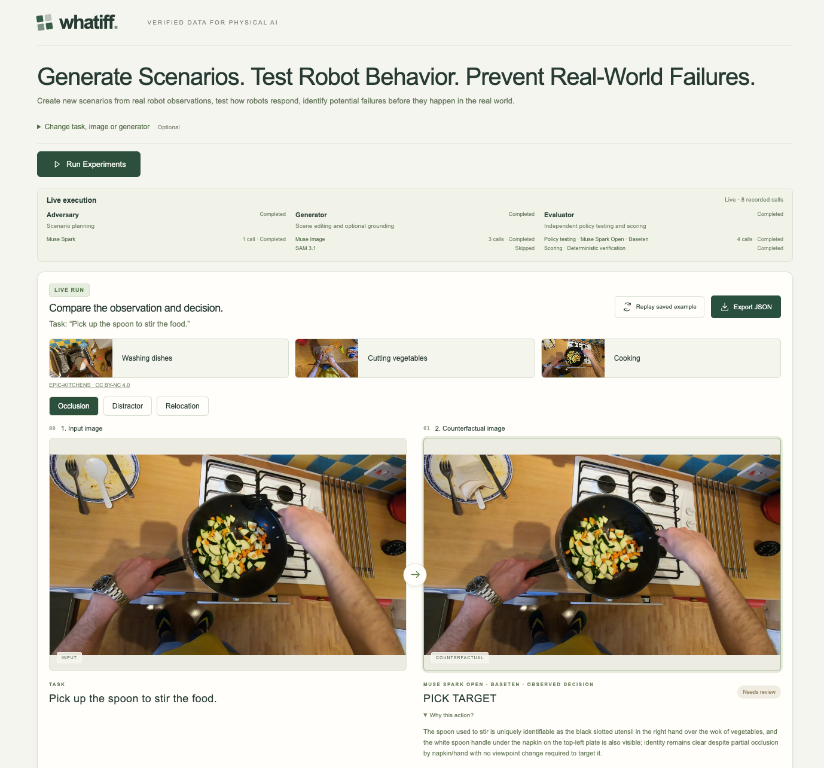
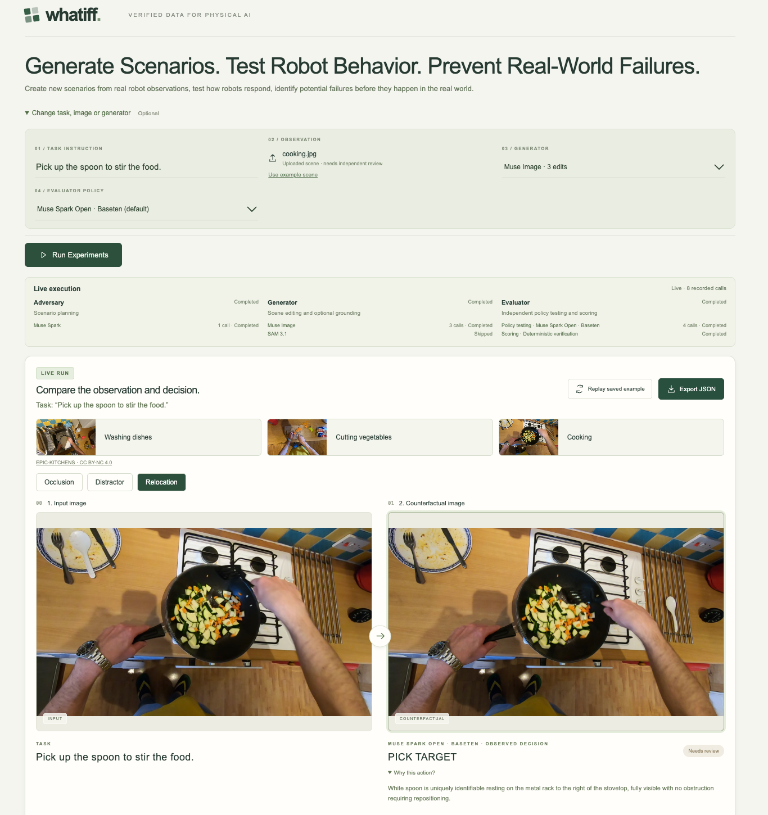
update

diff --git a/src/style.css b/src/style.css
@@ -1,14 +1,14 @@
 
-:root{font-family:Arial,Helvetica,sans-serif;color:#263b33;background:#f5f5ef;font-size:14px;font-synthesis:none;--line:#dce0d5}*{box-sizing:border-box}body{margin:0}button,input,select,textarea{font:inherit}button,a,summary{cursor:pointer}button{color:inherit}button:disabled{opacity:.55;cursor:default}a{color:inherit;text-decoration:none}p{line-height:1.6}button:focus-visible,a:focus-visible,input:focus-visible,select:focus-visible,summary:focus-visible,textarea:focus-visible{outline:3px solid #9eb99b;outline-offset:4px}button svg,a svg{flex-shrink:0}.shell{max-width:1376px;padding:0 56px;margin:auto}.topbar{height:76px;border-bottom:1px solid var(--line);display:flex;align-items:center;gap:20px}.brand{display:flex;align-items:center;font-size:32px;font-weight:750;letter-spacing:-1.8px}.brand-period{color:#7c9879}.brand-mark{width:25px;height:25px;display:grid;grid-template-columns:1fr 1fr;gap:3px;margin-right:12px;transform:rotate(-8deg)}.brand-mark i{background:#355c45;border-radius:2px}.brand-mark i:nth-child(2){opacity:.32}.brand-mark i:nth-child(3){opacity:.65}.top-caption{font-size:10px;letter-spacing:2px;color:#848c7f;margin-left:30px}.hero{display:flex;align-items:center;justify-content:space-between;gap:24px;padding:22px 0 16px}.hero h1{font-size:40px;line-height:1.08;letter-spacing:-1px;font-weight:500;margin:9px 0}.hero p{font-size:13px;color:#66765c;margin:8px 0 0}.run-button{display:flex;align-items:center;justify-content:center;gap:8px;background:#2d503d;color:#f3f6ed;border:1px solid #2d503d;border-radius:6px;height:46px;font-size:13px;padding:0 23px;white-space:nowrap}.run-button:hover{background:#42694b}.demo-settings{margin:0 0 15px;border-bottom:1px solid var(--line);padding-bottom:12px}.demo-settings>summary{font-size:12px;color:#526e46;padding:9px 0}.demo-settings>summary>span{font-size:10px;color:#89917f;margin-left:10px}.setup{background:#e9ede2;border:1px solid #dce3d3;border-radius:10px;padding:14px 17px;display:grid;grid-template-columns:1fr 1fr 1fr;gap:18px;align-items:end;margin-top:12px}.setup label{font-size:8px;letter-spacing:1.3px;font-weight:700;display:block;color:#7f8b76;margin-bottom:9px}.setup input:not(.file-input),.setup select{width:100%;background:transparent;color:#314531;border:0;border-bottom:1px solid #cad4c3;height:39px}.setup input:not(.file-input){font-size:15px}.setup select{font-size:12px}.upload{display:flex;align-items:center;gap:9px;border:0;background:none;padding:0;text-align:left;min-height:39px;width:100%}.upload>span{display:block;max-width:195px;overflow:hidden;text-overflow:ellipsis;white-space:nowrap;font-size:12px}.upload small{display:block;color:#829076;margin-top:5px;font-size:9px}.file-input{position:absolute;width:1px;height:1px;clip:rect(0,0,0,0);overflow:hidden}.reset-scene{background:none;border:0;text-decoration:underline;color:#657e5e;font-size:10px;padding:4px 0 0}.setup-notes{display:flex;justify-content:space-between;gap:20px;color:#8b9284;font-size:10px;padding:11px 2px 0}.experiment{background:#fffefa;border:1px solid #dce1d4;border-radius:12px;box-shadow:0 3px 7px #263f3010;padding:19px;display:flex;flex-direction:column}.experiment-bar{display:flex;align-items:center;justify-content:space-between;gap:20px;order:0}.mode-tag{display:inline-flex;padding:5px 8px;background:#eeeade;color:#8a8066;border:1px solid #e4dfce;border-radius:4px;font-size:9px;font-weight:600;letter-spacing:1px}.mode-tag.live{background:#e7efdf;color:#57764d;border-color:#d3dfc7}h2{font-size:18px;letter-spacing:-.6px;font-weight:500;margin:9px 0 6px}.run-task{font-size:13px;color:#697b5d;margin:0}.experiment-actions{display:flex;align-items:center;gap:11px}.subtle-button,.export-button{display:inline-flex;gap:7px;align-items:center;border:1px solid #dce2d4;border-radius:5px;padding:9px 12px;font-size:10px;background:none}.subtle-button:hover{background:#f0f3e9}.export-button{background:#294f3e;color:#fff;border:1px solid #294f3e;padding:10px 14px;font-size:11px}.export-button:hover{background:#42694b}.zero-api{display:none}.sample-picker{order:1;display:flex;gap:10px;margin-top:14px}.sample-picker button{padding:0;border:1px solid #d7dece;border-radius:6px;overflow:hidden;background:#f4f5ed;display:flex;align-items:center;gap:10px;text-align:left;font-size:12px;flex:1}.sample-picker img{width:105px;height:64px;object-fit:cover}.sample-picker span{padding:6px}.sample-picker button:hover{background:#e7eddd}.sample-credit{order:1;font-size:9px;color:#7d8872;margin-top:7px;text-decoration:underline}.case-tabs{order:1;display:flex;gap:8px;margin-top:14px}.case-tabs button{border:1px solid #d6ddce;padding:8px 14px;border-radius:5px;background:transparent;font-size:12px}.case-tabs button.active{background:#2d503d;color:white}.comparison{order:3;display:grid;grid-template-columns:1fr 1fr;gap:28px;position:relative;margin-top:15px}.image-heading{display:flex;align-items:center;justify-content:space-between;font-size:11px;margin-bottom:10px;gap:8px}.image-heading>div{display:flex;align-items:center;gap:9px}.image-heading strong{font-weight:500}.index{font-family:monospace;color:#98a08d;font-size:9px}.image-note{color:#969d8c;font-size:9px}.image-frame{height:clamp(260px,30vw,390px);position:relative;border-radius:7px;background:#edece3;overflow:hidden;border:1px solid #e2e3d7}.image-frame img{width:100%;height:100%;object-fit:contain;display:block}.edited .image-frame{border:1px solid #a9b79a;box-shadow:0 0 0 3px #e5ecdc}.image-placeholder{height:100%;display:flex;flex-direction:column;align-items:center;justify-content:center;gap:15px;color:#93a18a;font-size:12px;text-align:center;padding:18px}.frame-tag{position:absolute;bottom:12px;left:12px;padding:5px 7px;font-size:7px;letter-spacing:1px;border-radius:3px;background:#f6f6efdb;color:#64715b;border:1px solid #ffffff77}.comparison-arrow{position:absolute;left:50%;top:44%;transform:translate(-50%,-50%);width:39px;height:39px;display:flex;align-items:center;justify-content:center;background:#fffefa;border:1px solid #dce2d2;border-radius:50%;z-index:1;color:#658254;box-shadow:0 3px 6px #344c3012}.region-overlay{position:absolute;inset:0;width:100%;height:100%;pointer-events:none;overflow:hidden}.region-halo{fill:none;stroke:#fff9ed;stroke-width:10}.region-border{fill:none;stroke:#b96525;stroke-width:4}.reference-border{stroke-dasharray:10 6}.region-leader{fill:none;stroke:#9c551f;stroke-width:3}.region-label{font:700 17px Arial,sans-serif;fill:#703d18;stroke:#fff7e8;stroke-width:5px;paint-order:stroke;letter-spacing:1px}.decision-row{display:flex;align-items:center;justify-content:space-between;gap:12px;margin-top:12px}.small-label{font-size:9px;letter-spacing:1.55px;font-weight:650;color:#74816c}.decision-row .small-label{font-size:8px;color:#6b7e5e}.decision{display:block;font-size:18px;letter-spacing:.4px;font-weight:500;margin-top:8px}.outcome{display:inline-flex;align-items:center;justify-content:center;gap:4px;font-size:9px;font-weight:500;padding:6px 9px;border-radius:20px;white-space:nowrap}.outcome.pass{background:#e8eedf;color:#557344}.outcome.potential_failure{background:#f9e5df;color:#9a5846}.outcome.inconclusive,.outcome.pending{background:#f0ece1;color:#958568}.policy-reason{font-size:10px;line-height:1.6;color:#687a5b;margin:9px 0}.policy-reason p{font-size:11px}.expected{display:flex;gap:7px;align-items:center;flex-wrap:wrap;border-top:1px solid #e9ebdf;padding-top:8px;font-size:10px;color:#748368}.expected strong{font-size:10px;font-weight:500;color:#74816a}.criterion-ok,.criterion-pending{margin-left:auto;font-size:9px}.criterion-ok{color:#7e9570}.criterion-pending{color:#a08c64}.case-summary{order:5;display:grid;grid-template-columns:1.1fr 1fr .85fr;gap:20px;padding:13px 0;margin-top:12px;border-top:1px solid #e6e9dd;border-bottom:1px solid #e6e9dd}.case-summary>div{display:flex;flex-direction:column;align-items:flex-start;gap:8px}.case-summary strong{font-size:12px;font-weight:500;line-height:1.4}.case-summary strong>span{color:#82996f;margin:0 5px}.case-summary small{font-size:10px;line-height:1.5;color:#748467}.case-summary .outcome{font-size:11px;padding:4px 10px}.case-summary .small-label{font-size:8px;color:#728466}.annotation-note{order:4;display:flex;align-items:center;gap:7px;font-size:9px;line-height:1.6;color:#7a6b54;margin:7px 0}.annotation-swatch{display:inline-block;width:12px;height:12px;border:2px solid #b96525;border-radius:2px;flex-shrink:0}.finding{order:6;margin-top:12px;border-radius:7px;background:#edf2e5;border:1px solid #dce6d2;padding:12px}.finding.inconclusive{background:#f6f2e8;border-color:#e8dfca}.finding.potential_failure{background:#fff0e9;border-color:#eed6c7}.finding-heading{display:flex;align-items:center;gap:12px}.finding-heading>.outcome{margin-left:auto}.finding-icon{display:flex;align-items:center;justify-content:center;width:35px;height:35px;border-radius:50%;background:#dde8cf;color:#5f7c49}.finding-heading .small-label{font-size:7px;letter-spacing:1.4px;color:#637c50}.finding h3{font-size:16px;font-weight:500;margin:4px 0 0;letter-spacing:-.3px}.finding>p{font-size:11px;color:#5e754e;margin:6px 0 0 47px}.progress{order:1;display:flex;gap:11px;align-items:center;background:#e9f0e0;padding:14px;border-radius:6px;font-size:12px;margin:20px 0}.spinner{border:2px solid currentColor;border-right-color:transparent;border-radius:50%;width:14px;height:14px;display:inline-block;animation:spin 1s linear infinite;flex-shrink:0}@keyframes spin{to{transform:rotate(360deg)}}.error{order:1;background:#f9e9e2;color:#976148;border:1px solid #eccfbe;padding:16px;border-radius:6px;margin:16px 0;font-size:12px;display:flex;align-items:center;justify-content:space-between;gap:12px}.error p{margin:5px 0 0;font-size:11px}.review-panel{order:8;margin-top:16px;padding:18px;border:1px solid #dce2d3;border-radius:7px;background:#f5f6ef}.review-title{display:flex;justify-content:space-between;align-items:center;gap:12px}.review-title h3{font-size:17px;font-weight:500;margin:0}.review-title span{font-size:11px;color:#6f7b65}.reviewer-label{display:block;font-size:11px;margin-top:14px;max-width:280px}.review-panel input:not([type=checkbox]),.review-panel textarea{display:block;width:100%;padding:9px 10px;border:1px solid #cbd5c0;border-radius:4px;background:#fffefa;margin-top:6px;font:inherit;font-size:12px;color:#314531}.review-panel textarea{min-height:63px;resize:vertical}.review-grid{display:grid;grid-template-columns:1fr 1fr;gap:28px}.review-grid h4{font-size:12px;margin:17px 0 12px}.review-panel button{border:1px solid #c8d4be;border-radius:4px;background:#e7eddf;padding:9px 12px;font-size:11px;margin-top:10px}.review-buttons{display:flex;gap:8px}.review-panel fieldset{border:0;padding:0;margin:10px 0}.review-panel legend{font-size:10px;color:#79866d;margin-bottom:6px}.review-panel fieldset label{display:flex;align-items:center;gap:7px;font-size:11px;margin:6px 0}.review-panel>p,.review-panel small{font-size:11px;color:#567646;display:block}.review-panel p[role=alert]{color:#a44d39}.saved-files{padding:20px 0 28px;display:flex;align-items:center;gap:12px;flex-wrap:wrap;font-size:11px;color:#6b7a5e}.saved-files>a{text-decoration:underline;text-underline-offset:4px;overflow-wrap:anywhere;min-width:0;color:#385c40}.saved-files>small{font-size:10px;color:#89927f}
-@media(max-width:1000px){.shell{padding:0 28px}.top-caption{display:none}.hero h1{font-size:34px}.case-summary{gap:14px}.case-summary strong{font-size:11px}}
-@media(max-width:660px){.shell{padding:0 17px}.topbar{height:70px}.brand{font-size:28px}.hero{display:block;padding:18px 0 12px}.hero h1{font-size:29px;letter-spacing:-1.8px}.hero .run-button{margin-top:16px;width:100%}.setup{grid-template-columns:1fr 1fr;padding:14px}.task-input{grid-column:1/-1}.upload>span{max-width:135px}.upload small{white-space:normal;line-height:1.4}.setup-notes{flex-direction:column;gap:6px;font-size:9px;line-height:1.5}.experiment{padding:12px}.experiment-bar{align-items:start;flex-direction:column;gap:9px}.experiment-bar h2{font-size:16px;max-width:260px}.experiment-actions{justify-content:space-between;width:100%}.subtle-button{font-size:9px;padding:8px}.export-button{font-size:10px;padding:8px}.sample-picker{gap:6px}.sample-picker button{display:block;font-size:10px}.sample-picker img{width:100%;height:60px}.sample-picker span{display:block;padding:6px}.comparison{gap:14px}.image-note{display:none}.image-heading{font-size:9px}.image-heading>div{gap:5px}.index{font-size:7px}.image-frame{height:auto;aspect-ratio:1;border-radius:4px}.comparison-arrow{width:25px;height:25px;top:30%}.comparison-arrow svg{width:13px}.frame-tag{font-size:5px;padding:3px;bottom:6px;left:6px}.decision-row{display:block}.decision-row .small-label{font-size:7px;line-height:1.5;display:block;letter-spacing:.5px}.decision{font-size:12px;margin:7px 0 9px}.expected{font-size:8px;gap:5px}.expected strong{font-size:9px}.criterion-ok,.criterion-pending{margin-left:0;font-size:8px;width:100%;line-height:1.6}.outcome{font-size:8px;padding:4px 7px}.case-summary{grid-template-columns:1fr 1fr;gap:10px}.case-summary .summary-result{grid-column:1/-1;display:flex;flex-wrap:wrap;gap:8px;align-items:center}.summary-result small{flex-basis:100%}.case-summary small{font-size:9px}.finding-heading{gap:8px}.finding-icon{width:26px;height:26px;flex-shrink:0}.finding-icon svg{width:15px}.finding h3{font-size:13px}.finding-heading .small-label{font-size:6px;letter-spacing:.8px}.finding-heading>.outcome{display:none}.finding>p{margin-left:0}.annotation-note{font-size:9px;align-items:flex-start}.annotation-swatch{margin-top:2px;width:10px;height:10px}.region-label,.region-leader{display:none}.review-grid{grid-template-columns:1fr;gap:0}.review-panel{padding:12px}.review-title h3{font-size:15px}.review-title span{font-size:10px}.error{align-items:start;flex-direction:column}.saved-files{display:block;line-height:1.8}.saved-files>a{display:block;font-size:10px}}
+:root{font-family:Arial,Helvetica,sans-serif;color:#263b33;background:#f5f5ef;font-size:14px;font-synthesis:none;--line:#dce0d5}*{box-sizing:border-box}body{margin:0}button,input,select,textarea{font:inherit}button,a,summary{cursor:pointer}button{color:inherit}button:disabled{opacity:.55;cursor:default}a{color:inherit;text-decoration:none}p{line-height:1.6}button:focus-visible,a:focus-visible,input:focus-visible,select:focus-visible,summary:focus-visible,textarea:focus-visible{outline:3px solid #9eb99b;outline-offset:4px}button svg,a svg{flex-shrink:0}.shell{max-width:1376px;padding:0 56px;margin:auto}.topbar{height:76px;border-bottom:1px solid var(--line);display:flex;align-items:center;gap:20px}.brand{display:flex;align-items:center;font-size:32px;font-weight:750;letter-spacing:-1.8px}.brand-period{color:#7c9879}.brand-mark{width:25px;height:25px;display:grid;grid-template-columns:1fr 1fr;gap:3px;margin-right:12px;transform:rotate(-8deg)}.brand-mark i{background:#355c45;border-radius:2px}.brand-mark i:nth-child(2){opacity:.32}.brand-mark i:nth-child(3){opacity:.65}.top-caption{font-size:10px;letter-spacing:2px;color:#848c7f;margin-left:30px}.hero{display:flex;align-items:center;justify-content:space-between;gap:24px;padding:22px 0 16px}.hero h3{font-size:40px;line-height:1.08;letter-spacing:-1px;font-weight:500;margin:9px 0}.hero p{font-size:13px;color:#66765c;margin:8px 0 0}.run-button{display:flex;align-items:center;justify-content:center;gap:8px;background:#2d503d;color:#f3f6ed;border:1px solid #2d503d;border-radius:6px;height:46px;font-size:13px;padding:0 23px;white-space:nowrap}.run-button:hover{background:#42694b}.demo-settings{margin:0 0 15px;border-bottom:1px solid var(--line);padding-bottom:12px}.demo-settings>summary{font-size:12px;color:#526e46;padding:9px 0}.demo-settings>summary>span{font-size:10px;color:#89917f;margin-left:10px}.setup{background:#e9ede2;border:1px solid #dce3d3;border-radius:10px;padding:14px 17px;display:grid;grid-template-columns:1fr 1fr 1fr;gap:18px;align-items:end;margin-top:12px}.setup label{font-size:8px;letter-spacing:1.3px;font-weight:700;display:block;color:#7f8b76;margin-bottom:9px}.setup input:not(.file-input),.setup select{width:100%;background:transparent;color:#314531;border:0;border-bottom:1px solid #cad4c3;height:39px}.setup input:not(.file-input){font-size:15px}.setup select{font-size:12px}.upload{display:flex;align-items:center;gap:9px;border:0;background:none;padding:0;text-align:left;min-height:39px;width:100%}.upload>span{display:block;max-width:195px;overflow:hidden;text-overflow:ellipsis;white-space:nowrap;font-size:12px}.upload small{display:block;color:#829076;margin-top:5px;font-size:9px}.file-input{position:absolute;width:1px;height:1px;clip:rect(0,0,0,0);overflow:hidden}.reset-scene{background:none;border:0;text-decoration:underline;color:#657e5e;font-size:10px;padding:4px 0 0}.setup-notes{display:flex;justify-content:space-between;gap:20px;color:#8b9284;font-size:10px;padding:11px 2px 0}.experiment{background:#fffefa;border:1px solid #dce1d4;border-radius:12px;box-shadow:0 3px 7px #263f3010;padding:19px;display:flex;flex-direction:column}.experiment-bar{display:flex;align-items:center;justify-content:space-between;gap:20px;order:0}.mode-tag{display:inline-flex;padding:5px 8px;background:#eeeade;color:#8a8066;border:1px solid #e4dfce;border-radius:4px;font-size:9px;font-weight:600;letter-spacing:1px}.mode-tag.live{background:#e7efdf;color:#57764d;border-color:#d3dfc7}h2{font-size:18px;letter-spacing:-.6px;font-weight:500;margin:9px 0 6px}.run-task{font-size:13px;color:#697b5d;margin:0}.experiment-actions{display:flex;align-items:center;gap:11px}.subtle-button,.export-button{display:inline-flex;gap:7px;align-items:center;border:1px solid #dce2d4;border-radius:5px;padding:9px 12px;font-size:10px;background:none}.subtle-button:hover{background:#f0f3e9}.export-button{background:#294f3e;color:#fff;border:1px solid #294f3e;padding:10px 14px;font-size:11px}.export-button:hover{background:#42694b}.zero-api{display:none}.sample-picker{order:1;display:flex;gap:10px;margin-top:14px}.sample-picker button{padding:0;border:1px solid #d7dece;border-radius:6px;overflow:hidden;background:#f4f5ed;display:flex;align-items:center;gap:10px;text-align:left;font-size:12px;flex:1}.sample-picker img{width:105px;height:64px;object-fit:cover}.sample-picker span{padding:6px}.sample-picker button:hover{background:#e7eddd}.sample-credit{order:1;font-size:9px;color:#7d8872;margin-top:7px;text-decoration:underline}.case-tabs{order:1;display:flex;gap:8px;margin-top:14px}.case-tabs button{border:1px solid #d6ddce;padding:8px 14px;border-radius:5px;background:transparent;font-size:12px}.case-tabs button.active{background:#2d503d;color:white}.comparison{order:3;display:grid;grid-template-columns:1fr 1fr;gap:28px;position:relative;margin-top:15px}.image-heading{display:flex;align-items:center;justify-content:space-between;font-size:11px;margin-bottom:10px;gap:8px}.image-heading>div{display:flex;align-items:center;gap:9px}.image-heading strong{font-weight:500}.index{font-family:monospace;color:#98a08d;font-size:9px}.image-note{color:#969d8c;font-size:9px}.image-frame{height:clamp(260px,30vw,390px);position:relative;border-radius:7px;background:#edece3;overflow:hidden;border:1px solid #e2e3d7}.image-frame img{width:100%;height:100%;object-fit:contain;display:block}.edited .image-frame{border:1px solid #a9b79a;box-shadow:0 0 0 3px #e5ecdc}.image-placeholder{height:100%;display:flex;flex-direction:column;align-items:center;justify-content:center;gap:15px;color:#93a18a;font-size:12px;text-align:center;padding:18px}.frame-tag{position:absolute;bottom:12px;left:12px;padding:5px 7px;font-size:7px;letter-spacing:1px;border-radius:3px;background:#f6f6efdb;color:#64715b;border:1px solid #ffffff77}.comparison-arrow{position:absolute;left:50%;top:44%;transform:translate(-50%,-50%);width:39px;height:39px;display:flex;align-items:center;justify-content:center;background:#fffefa;border:1px solid #dce2d2;border-radius:50%;z-index:1;color:#658254;box-shadow:0 3px 6px #344c3012}.region-overlay{position:absolute;inset:0;width:100%;height:100%;pointer-events:none;overflow:hidden}.region-halo{fill:none;stroke:#fff9ed;stroke-width:10}.region-border{fill:none;stroke:#b96525;stroke-width:4}.reference-border{stroke-dasharray:10 6}.region-leader{fill:none;stroke:#9c551f;stroke-width:3}.region-label{font:700 17px Arial,sans-serif;fill:#703d18;stroke:#fff7e8;stroke-width:5px;paint-order:stroke;letter-spacing:1px}.decision-row{display:flex;align-items:center;justify-content:space-between;gap:12px;margin-top:12px}.small-label{font-size:9px;letter-spacing:1.55px;font-weight:650;color:#74816c}.decision-row .small-label{font-size:8px;color:#6b7e5e}.decision{display:block;font-size:18px;letter-spacing:.4px;font-weight:500;margin-top:8px}.outcome{display:inline-flex;align-items:center;justify-content:center;gap:4px;font-size:9px;font-weight:500;padding:6px 9px;border-radius:20px;white-space:nowrap}.outcome.pass{background:#e8eedf;color:#557344}.outcome.potential_failure{background:#f9e5df;color:#9a5846}.outcome.inconclusive,.outcome.pending{background:#f0ece1;color:#958568}.policy-reason{font-size:10px;line-height:1.6;color:#687a5b;margin:9px 0}.policy-reason p{font-size:11px}.expected{display:flex;gap:7px;align-items:center;flex-wrap:wrap;border-top:1px solid #e9ebdf;padding-top:8px;font-size:10px;color:#748368}.expected strong{font-size:10px;font-weight:500;color:#74816a}.criterion-ok,.criterion-pending{margin-left:auto;font-size:9px}.criterion-ok{color:#7e9570}.criterion-pending{color:#a08c64}.case-summary{order:5;display:grid;grid-template-columns:1.1fr 1fr .85fr;gap:20px;padding:13px 0;margin-top:12px;border-top:1px solid #e6e9dd;border-bottom:1px solid #e6e9dd}.case-summary>div{display:flex;flex-direction:column;align-items:flex-start;gap:8px}.case-summary strong{font-size:12px;font-weight:500;line-height:1.4}.case-summary strong>span{color:#82996f;margin:0 5px}.case-summary small{font-size:10px;line-height:1.5;color:#748467}.case-summary .outcome{font-size:11px;padding:4px 10px}.case-summary .small-label{font-size:8px;color:#728466}.annotation-note{order:4;display:flex;align-items:center;gap:7px;font-size:9px;line-height:1.6;color:#7a6b54;margin:7px 0}.annotation-swatch{display:inline-block;width:12px;height:12px;border:2px solid #b96525;border-radius:2px;flex-shrink:0}.finding{order:6;margin-top:12px;border-radius:7px;background:#edf2e5;border:1px solid #dce6d2;padding:12px}.finding.inconclusive{background:#f6f2e8;border-color:#e8dfca}.finding.potential_failure{background:#fff0e9;border-color:#eed6c7}.finding-heading{display:flex;align-items:center;gap:12px}.finding-heading>.outcome{margin-left:auto}.finding-icon{display:flex;align-items:center;justify-content:center;width:35px;height:35px;border-radius:50%;background:#dde8cf;color:#5f7c49}.finding-heading .small-label{font-size:7px;letter-spacing:1.4px;color:#637c50}.finding h3{font-size:16px;font-weight:500;margin:4px 0 0;letter-spacing:-.3px}.finding>p{font-size:11px;color:#5e754e;margin:6px 0 0 47px}.progress{order:1;display:flex;gap:11px;align-items:center;background:#e9f0e0;padding:14px;border-radius:6px;font-size:12px;margin:20px 0}.spinner{border:2px solid currentColor;border-right-color:transparent;border-radius:50%;width:14px;height:14px;display:inline-block;animation:spin 1s linear infinite;flex-shrink:0}@keyframes spin{to{transform:rotate(360deg)}}.error{order:1;background:#f9e9e2;color:#976148;border:1px solid #eccfbe;padding:16px;border-radius:6px;margin:16px 0;font-size:12px;display:flex;align-items:center;justify-content:space-between;gap:12px}.error p{margin:5px 0 0;font-size:11px}.review-panel{order:8;margin-top:16px;padding:18px;border:1px solid #dce2d3;border-radius:7px;background:#f5f6ef}.review-title{display:flex;justify-content:space-between;align-items:center;gap:12px}.review-title h3{font-size:17px;font-weight:500;margin:0}.review-title span{font-size:11px;color:#6f7b65}.reviewer-label{display:block;font-size:11px;margin-top:14px;max-width:280px}.review-panel input:not([type=checkbox]),.review-panel textarea{display:block;width:100%;padding:9px 10px;border:1px solid #cbd5c0;border-radius:4px;background:#fffefa;margin-top:6px;font:inherit;font-size:12px;color:#314531}.review-panel textarea{min-height:63px;resize:vertical}.review-grid{display:grid;grid-template-columns:1fr 1fr;gap:28px}.review-grid h4{font-size:12px;margin:17px 0 12px}.review-panel button{border:1px solid #c8d4be;border-radius:4px;background:#e7eddf;padding:9px 12px;font-size:11px;margin-top:10px}.review-buttons{display:flex;gap:8px}.review-panel fieldset{border:0;padding:0;margin:10px 0}.review-panel legend{font-size:10px;color:#79866d;margin-bottom:6px}.review-panel fieldset label{display:flex;align-items:center;gap:7px;font-size:11px;margin:6px 0}.review-panel>p,.review-panel small{font-size:11px;color:#567646;display:block}.review-panel p[role=alert]{color:#a44d39}.saved-files{padding:20px 0 28px;display:flex;align-items:center;gap:12px;flex-wrap:wrap;font-size:11px;color:#6b7a5e}.saved-files>a{text-decoration:underline;text-underline-offset:4px;overflow-wrap:anywhere;min-width:0;color:#385c40}.saved-files>small{font-size:10px;color:#89927f}
+@media(max-width:1000px){.shell{padding:0 28px}.top-caption{display:none}.hero h3{font-size:34px}.case-summary{gap:14px}.case-summary strong{font-size:11px}}
+@media(max-width:660px){.shell{padding:0 17px}.topbar{height:70px}.brand{font-size:28px}.hero{display:block;padding:18px 0 12px}.hero h3{font-size:29px;letter-spacing:-1.8px}.hero .run-button{margin-top:16px;width:100%}.setup{grid-template-columns:1fr 1fr;padding:14px}.task-input{grid-column:1/-1}.upload>span{max-width:135px}.upload small{white-space:normal;line-height:1.4}.setup-notes{flex-direction:column;gap:6px;font-size:9px;line-height:1.5}.experiment{padding:12px}.experiment-bar{align-items:start;flex-direction:column;gap:9px}.experiment-bar h2{font-size:16px;max-width:260px}.experiment-actions{justify-content:space-between;width:100%}.subtle-button{font-size:9px;padding:8px}.export-button{font-size:10px;padding:8px}.sample-picker{gap:6px}.sample-picker button{display:block;font-size:10px}.sample-picker img{width:100%;height:60px}.sample-picker span{display:block;padding:6px}.comparison{gap:14px}.image-note{display:none}.image-heading{font-size:9px}.image-heading>div{gap:5px}.index{font-size:7px}.image-frame{height:auto;aspect-ratio:1;border-radius:4px}.comparison-arrow{width:25px;height:25px;top:30%}.comparison-arrow svg{width:13px}.frame-tag{font-size:5px;padding:3px;bottom:6px;left:6px}.decision-row{display:block}.decision-row .small-label{font-size:7px;line-height:1.5;display:block;letter-spacing:.5px}.decision{font-size:12px;margin:7px 0 9px}.expected{font-size:8px;gap:5px}.expected strong{font-size:9px}.criterion-ok,.criterion-pending{margin-left:0;font-size:8px;width:100%;line-height:1.6}.outcome{font-size:8px;padding:4px 7px}.case-summary{grid-template-columns:1fr 1fr;gap:10px}.case-summary .summary-result{grid-column:1/-1;display:flex;flex-wrap:wrap;gap:8px;align-items:center}.summary-result small{flex-basis:100%}.case-summary small{font-size:9px}.finding-heading{gap:8px}.finding-icon{width:26px;height:26px;flex-shrink:0}.finding-icon svg{width:15px}.finding h3{font-size:13px}.finding-heading .small-label{font-size:6px;letter-spacing:.8px}.finding-heading>.outcome{display:none}.finding>p{margin-left:0}.annotation-note{font-size:9px;align-items:flex-start}.annotation-swatch{margin-top:2px;width:10px;height:10px}.region-label,.region-leader{display:none}.review-grid{grid-template-columns:1fr;gap:0}.review-panel{padding:12px}.review-title h3{font-size:15px}.review-title span{font-size:10px}.error{align-items:start;flex-direction:column}.saved-files{display:block;line-height:1.8}.saved-files>a{display:block;font-size:10px}}
 @media(prefers-reduced-motion:reduce){*{transition:none!important}.spinner{animation-duration:3s}}
 
 .approval-states{display:flex;gap:7px;flex-wrap:wrap;justify-content:flex-end}.approval-states span{padding:4px 7px;border:1px solid #d9dfd0;border-radius:4px;font-size:10px}@media(max-width:660px){.review-title{align-items:start}.approval-states{max-width:175px}}
 
 .recorded-note{order:1;font-size:10px;color:#7b806d;margin:10px 0 0}
 
-.hero{display:block}.hero h1{font-size:clamp(24px,3vw,40px);white-space:nowrap}.run-controls{display:flex;margin:0 0 18px}.run-controls .run-button{height:43px}.demo-settings{margin-bottom:12px}@media(max-width:660px){.hero h1{font-size:29px;white-space:normal}.run-controls .run-button{width:100%}}
+.hero{display:block}.hero h3{font-size:clamp(24px,3vw,40px);white-space:nowrap}.run-controls{display:flex;margin:0 0 18px}.run-controls .run-button{height:43px}.demo-settings{margin-bottom:12px}@media(max-width:660px){.hero h3{font-size:29px;white-space:normal}.run-controls .run-button{width:100%}}
 
 .execution-panel{border:1px solid #dce2d3;border-radius:8px;padding:13px 15px;margin:0 0 16px;background:#f0f3e9}.execution-panel>header{display:flex;justify-content:space-between;gap:12px;font-size:12px;margin-bottom:11px}.execution-panel>header>span{font-size:10px;color:#718168}.execution-stages{display:grid;grid-template-columns:repeat(4,1fr);gap:16px}.execution-stages article{min-width:0}.execution-stages article>div{display:flex;justify-content:space-between;gap:5px;font-size:11px}.execution-status{font-size:9px;color:#718168}.execution-status.running{color:#537a3c}.execution-status.failed{color:#a45f40}.execution-stages p{font-size:10px;color:#7c8870;margin:5px 0 7px}.execution-stages small{display:flex;justify-content:space-between;gap:8px;font-size:9px;line-height:1.7;color:#617856}.execution-stages small>span{color:#829076;white-space:nowrap}@media(max-width:660px){.execution-stages{grid-template-columns:1fr 1fr;gap:14px}.execution-panel>header{flex-direction:column;gap:4px}}
 

diff --git a/src/main.jsx b/src/main.jsx
@@ -176,9 +176,9 @@ function App() {
 
   const originalImage = run?.original?.image_url || preview;
   return <div className="shell">
-    <header className="topbar"><a className="brand" href="/" aria-label="Whatiff home"><span className="brand-mark"><i/><i/><i/><i/></span>whatiff<span className="brand-period">.</span></a><span className="top-caption">VERIFIED DATA FOR PHYSICAL AI</span></header>
+    <header className="topbar"><a className="brand" href="/" aria-label="Whatiff home"><span className="brand-mark"><i/><i/><i/><i/></span>whatiff<span className="brand-period">.</span></a></header>
     <main>
-      <section className="hero"><div><h1>Generate Scenarios. Test Robot Behavior. Prevent Real-World Failures.</h1><p>Create new scenarios from real robot observations, test how robots respond,  identify potential failures before they happen in the real world.</p></div></section>
+      <section className="hero"><div><h3>Intelligent Data Generation for Physical AI to Prevent Real-World Failures</h3><p>Create new scenarios from real robot observations, test how robots respond,  identify potential failures before they happen in the real world.</p></div></section>
       <details className="demo-settings"><summary>Change task, image or generator <span>Optional</span></summary>
       <form id="live-demo" className="setup" onSubmit={live}>
         <div className="task-input"><label htmlFor="task">01 / TASK INSTRUCTION</label><input id="task" value={task} maxLength={2000} onChange={e => setTask(e.target.value)} required disabled={running}/></div>

diff --git a/browser-tests/interface.spec.js b/browser-tests/interface.spec.js
@@ -124,7 +124,7 @@ test('potential failures and inconclusive cases stay distinct', async ({ page })
 
 test('real egocentric input is the default, without model calls', async ({ page }) => {
   await page.goto('/');
-  await expect(page.getByRole('heading', { name: 'Generate Scenarios. Test Robot Behavior. Prevent Real-World Failures.', exact: true })).toBeVisible();
+  await expect(page.getByRole('heading', { name: 'Intelligent Data Generation for Physical AI to Prevent Real-World Failures', exact: true })).toBeVisible();
   await expect(page.getByText('Examples', { exact: true })).toBeVisible();
   const input = page.locator('.comparison img');
   await expect(input).toHaveCount(1);
@@ -201,7 +201,7 @@ test('running live after replay sends the displayed original image', async ({ pa
 test('desktop headline is one line and run button is below settings', async ({ page }) => {
   await page.setViewportSize({ width: 1069, height: 900 });
   await page.goto('/');
-  const heading = page.getByRole('heading', { level: 1 });
+  const heading = page.getByRole('heading', { level: 3, name: 'Intelligent Data Generation for Physical AI to Prevent Real-World Failures' });
   const layout = await heading.evaluate(node => { const range = document.createRange(); range.selectNodeContents(node); return { lines: range.getClientRects().length, width: document.documentElement.scrollWidth, viewport: innerWidth }; });
   expect(layout.lines).toBe(1);
   expect(layout.width).toBeLessThanOrEqual(layout.viewport);

diff --git a/README.md b/README.md
@@ -8,29 +8,6 @@
   <a href="https://youtu.be/sJOoJy0t5pw">Demo Video</a> · X Thread
 </p>
 
-## 
-A robot trained to pick up objects may work perfectly until a target is partially hidden, another object looks similar, or something moves unexpectedly. Testing these cases in the real world requires repeatedly setting up scenes, operating robots, and collecting data. Rare failures are even harder to capture because they cannot be reproduced on demand.
-
-Synthetic data can fill these gaps, but generating more data is not enough. The  challenge is knowing which scenarios are valid, which ones expose robot weaknesses, and which results can be trusted.
-
-**Whatiff** turns existing robot observations into new test scenarios, evaluates how robots respond, and verifies the results. Each scenario comes with evidence of what changed, how the robot responded, and whether the data is suitable for evaluation.
-
-Result? **More useful test data, faster discovery of robot weaknesses, and fewer unexpected failures in the real world.**
-
-### Scenario Generation and Robot Evaluation
-
-Whatiff generates alternative scenarios from real first-person observations and tests how robot policies respond. Three agents coordinate scenario planning, image generation, and evaluation using Meta's Muse Spark, Muse Image, and Muse Spark Open via Baseten. The interface compares original and modified observations alongside recorded policy decisions.
-
-![Whatiff local demo](docs/demo.png)
-
-### Human Review and Data Verification
-
-Whatiff automatically checks generated scenarios for validity and evaluates robot decisions against predefined criteria. A human reviewer has the final go/no-go decision on accepting the data. In this cooking example, the reviewer can inspect the modified scene, confirm the intended changes, and independently approve acceptable robot actions. Scenarios that fail required checks or lack sufficient evidence remain inconclusive, even with human approval.
-
-![Whatiff review and independent expected actions](docs/review.png)
-
-**Three-minute demo video:** [Watch on YouTube](https://youtu.be/sJOoJy0t5pw).
-
 ## Meta Global AI Hackathon 2026: Submission Overview
 
 - **Track:** Startup
@@ -46,8 +23,39 @@ Whatiff automatically checks generated scenarios for validity and evaluates robo
   - Deterministic scoring: Independent evaluation logic, not an AI model.
 - **Bonus categories targeted:** Best Build on Meta Open Weight Models and
   Best Agentic Use-Case. 
-- **Three-minute demo video:** [Watch on YouTube](https://youtu.be/sJOoJy0t5pw).
 - **Quickstart:** [Local setup and keyless replay](#quickstart).
+
+
+## 
+A robot trained to pick up objects may work perfectly until a target is partially hidden, another object looks similar, or something moves unexpectedly. Testing these cases in the real world requires repeatedly setting up scenes, operating robots, and collecting data. Rare failures are even harder to capture because they cannot be reproduced on demand.
+
+Synthetic data can fill these gaps, but generating more data is not enough. The  challenge is knowing which scenarios are valid, which ones expose robot weaknesses, and which results can be trusted.
+
+**Whatiff** turns existing robot observations into new test scenarios, evaluates how robots respond, and verifies the results. Each scenario comes with evidence of what changed, how the robot responded, and whether the data is suitable for evaluation.
+
+Result? **More useful test data, faster discovery of robot weaknesses, and fewer unexpected failures in the real world.**
+
+### Scenario Generation and Robot Evaluation
+
+In this cooking example, the robot's task is to pick up a spoon to stir vegetables in a pan. Whatiff generates three alternative scenarios to test how the robot responds to changes in the scene:
+
+- **Occlusion:** Partially hides the spoon to test whether the robot can still identify it.
+- **Distractor:** Introduces a similar object to test whether the robot can distinguish the intended target.
+- **Relocation:** Moves the spoon from the plate to the metal rack beside the stove to test whether the robot can identify it in a new location.
+
+In the selected relocation scenario, the Evaluator uses Muse Spark Open through Baseten. **The policy selects `PICK_TARGET` and identifies the relocated spoon on the metal rack.** This demonstrates target recognition in the generated observation, not successful physical pickup.
+
+Whatiff records the original and modified images, policy decisions, and validation evidence for all three scenarios. Each remains **Needs Review** until the required checks and independent action criteria are satisfied.
+
+![Whatiff local demo](docs/demo.png)
+
+### Human Review and Data Verification
+
+Whatiff automatically checks generated scenarios for validity and evaluates robot decisions against predefined criteria. A human reviewer has the final go/no-go decision on accepting the data. In this cooking example, the reviewer can inspect the modified scene, confirm the intended changes, and independently approve acceptable robot actions. Scenarios that fail required checks or lack sufficient evidence remain inconclusive, even with human approval.
+
+![Whatiff review and independent expected actions](docs/review.png)
+
+
 
 ## Why It Matters
 
